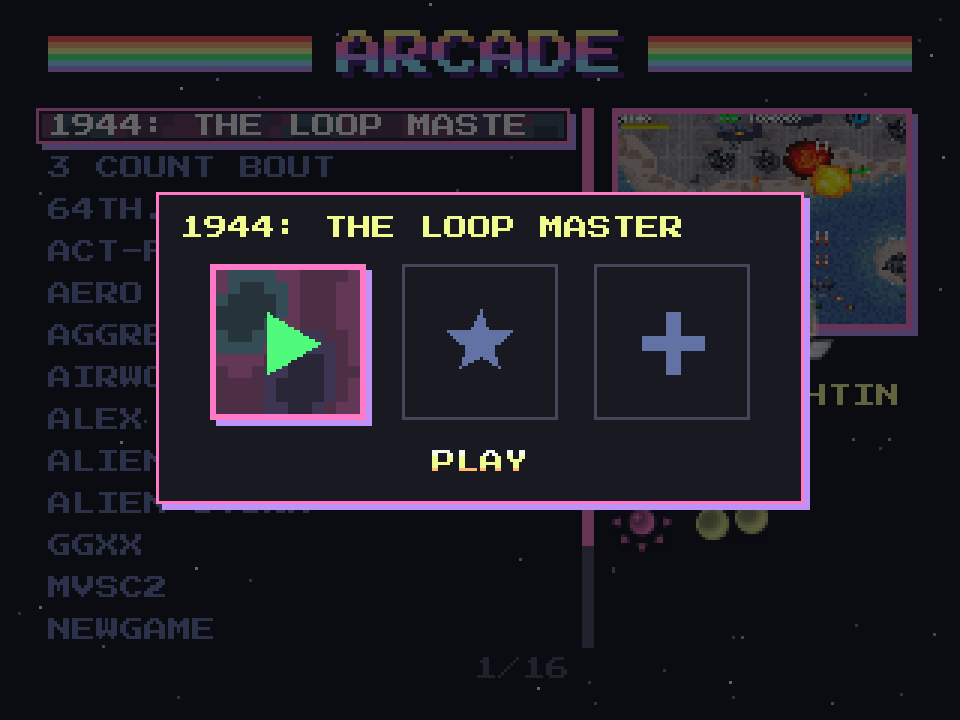
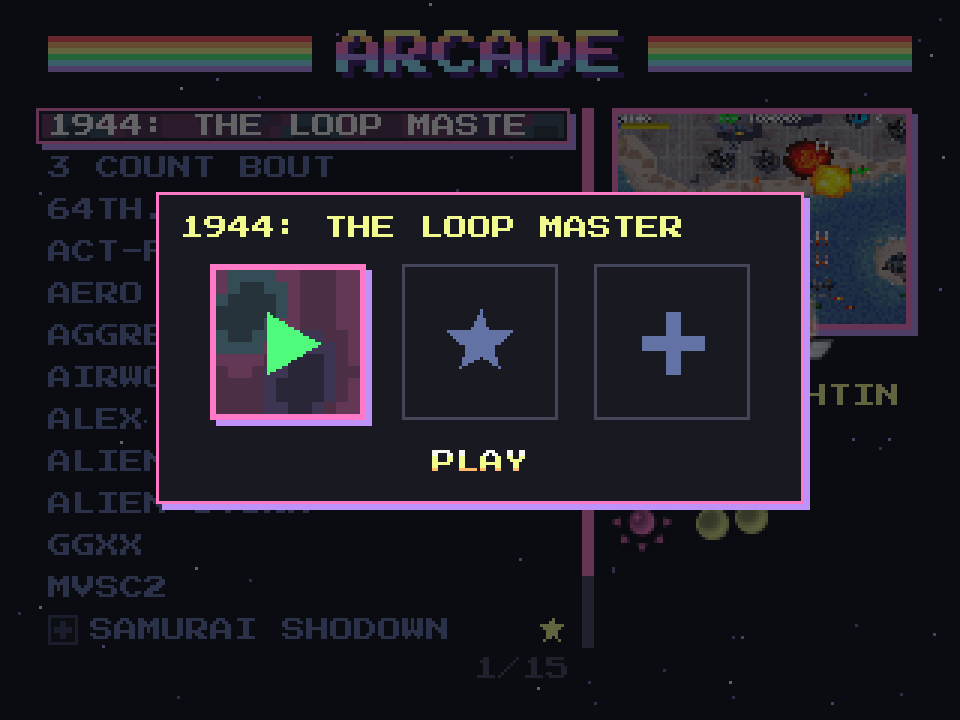
Frontend: o [+] do jogo pai mais transparente no modo lista
Fechado, o [+] fica bem mais apagado que o nome do jogo; aberto, o [-]
rosa um pouco menos. Os prints do site com a lista foram refeitos.

diff --git a/fliperos-setup/gui/feview.py b/fliperos-setup/gui/feview.py
@@ -524,12 +524,16 @@ def draw_list(fe, ui, now):
         if level == 0:
             x = lx + 14 if extra else lx
             if extra:
+                # O [+] do jogo pai, um pouco transparente (aberto, menos).
                 opened = game["Name"] in fe.opened
-                W.block(ui, (lx, y + 1, 10, 10), T.BG_DEEP, None)
-                pygame.draw.rect(ui, T.PINK if opened else T.COMMENT, (lx, y + 1, 10, 10), 1)
-                ui.fill(T.PINK if opened else T.COMMENT, (lx + 2, y + 5, 6, 2))
+                mark = pygame.Surface((10, 10), pygame.SRCALPHA)
+                mark.fill(T.BG_DEEP)
+                pygame.draw.rect(mark, T.PINK if opened else T.COMMENT, (0, 0, 10, 10), 1)
+                mark.fill(T.PINK if opened else T.COMMENT, (2, 4, 6, 2))
                 if not opened:
-                    ui.fill(T.COMMENT, (lx + 4, y + 3, 2, 6))
+                    mark.fill(T.COMMENT, (4, 2, 2, 6))
+                mark.set_alpha(190 if opened else 120)
+                ui.blit(mark, (lx, y + 1))
             label = fe.fd.short_title(game)
             color = T.FG if game["Name"] in fe.opened else T.COMMENT
         else:
